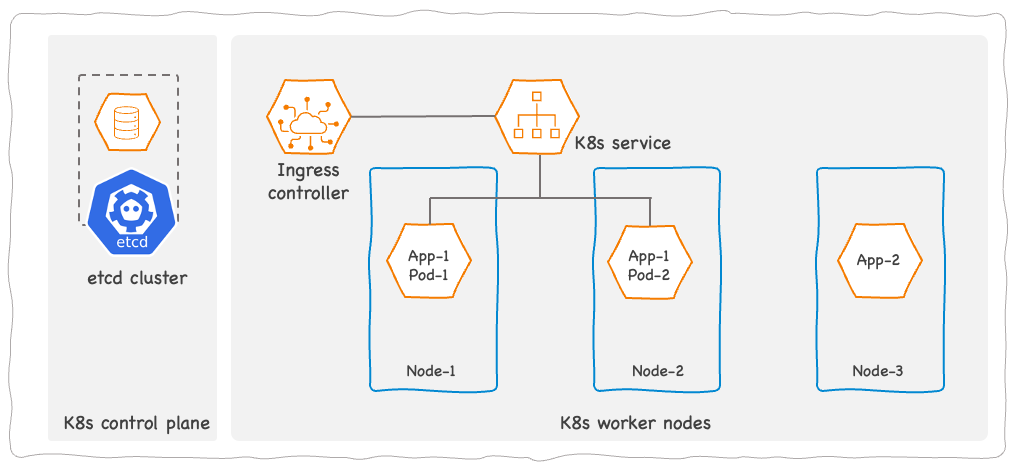
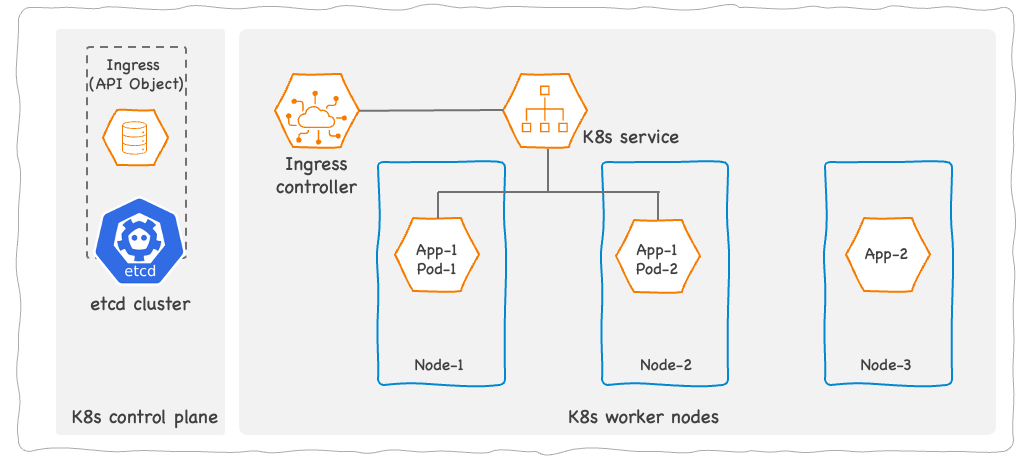
updated ingress

diff --git a/_sass/_post.scss b/_sass/_post.scss
@@ -92,6 +92,14 @@ section.post-footer{
   padding-bottom: 5px;
 }
 
+p{
+  img{
+    display: block;
+    margin-left: auto;
+    margin-right: auto;
+  }
+}
+
 img + em { 
   display: block;
   text-align: center;

diff --git a/_drafts/2023-07-01-kubernetes-ingress.md b/_drafts/2023-07-01-kubernetes-ingress.md
@@ -2,52 +2,57 @@
 layout: post
 title:  "What is Kubernetes Ingress"
 description: > 
-  The purpose of Kubernetes Ingress and how to use it.
-image: "docker-cli.png"
+  What is the purpose of Kubernetes Ingress and how to use it to expose HTTP(S) workloads.
+image: "k8s-ingress-cover.png"
 date:   2023-06-23 15:10:00 +0530
 categories: [hands-on]
 tags: [Kubernetes]
 ---
 
 <div class="header-highlight">
-The purpose of Kubernetes Ingress and how to use it to expose HTTP workloads.
+Ingress is a mechanism for exposing HTTP or HTTPS application running inside a Kubernetes cluster. 
 </div>
 
-We discussed about Kubernetes networking and how to expose an application running inside Kubernetes. 
-There's another method that we can expose a Service to external world - Kubernetes Ingress.
+An application running inside a Kubernetes cluster is not directly accessible from outside most of the time. For exposing such applications to outside clients, Kubernetes provides several methods.
 
-Kubernetes Ingress expose an application via an Nginx which acts as a reverse prox. So, ngress works onl for HTTP or HTTPS based applications. 
+Ingress is one such method and is better suited for exposing Kubernetes Workloads via HTTP or HTTP(S).
 
-You may wander why there are two ways of exposing Kubernetes services. 
-They have slight differences.
+Kubernetes has other mechanisms such as NodePort and LoadBalancer for non-HTTP usecases. 
 
-A load balancer routes traffic directly to Pods. It works in layer 4 and distribut traffic to pods.
-
-An Ingress routes trafffic through an Ingress controller which itself is a Pod within the cluster. The Pods need not be exposed to outside. 
-An ingress is in  Layer-7. It can handle URL or subdomain based routing. All traffi goes through the ingress controller Pod. It works only for HTTP or HTTPs protocols only.
-
-A rule of thumb is if your application uses HTTP or HTTPS only, use ingress. Otherwise go for a loadbalancer service.
+Unlike other mechanisms, ingress works in layer-7 of the OSI model. So, ingress supports SSL/TLS termination, and URL/subdomain based traffic routing and load balancing, so ingress provides a better mechanism that works only for HTTP(S) applications.
 
 # Ingress and Ingress Controller
 
-Kubernetes Ingress is an API object in Kubernetes. Kubernetes stores its API objects in the `etcd` data store.
+Ingress is an API object stored in the `etcd` data stoer in Kubernetes. Ingress defines the traffic routing rules. But ingress alone is not sufficient for routing traffic.
+
+The ingress controller is responsible for routing the HTTP(S) traffic according ot the rules defined in ingress. Typically, Ingress controller is deployed inside the cluster. But, cloud providers like AWS where Pod IP addresses are reachable in the VPC, ingress controller can reside outside the cluster.
+
+When the ingress controller is deployed inside the cluster, you need a load balancer to be deployed in front of the ingress controller. 
 
 <div class="inline-highlight">
 An Ingress object defines a set of rules for routing HTTP(S) traffic to Kubernetes Service(s).
 </div>
 An Ingress object defines how HTTP or HTTPS traffic must be routed to one or more Kubernetes Services.
 
-The `Ingress Controller` is a piece of software that runs in one or more Pods inside the kubernetes cluster. The ingress controller implements the rules defined in the Ingress object and takes care of routing the traffic to destined Kubernetes Services.
-
 ![Ingress and Ingress Controller](/assets/images/k8s-ingress-api-object.png){: width="100%" }
 *Ingress and Ingress Controller*
 
-# Ingress controller implementations
-There are several implementations of ingress controller, commercial or open-source, managed or self-managed.
+# Ingress controller implementation
+An ingress controller has two parts.
+
+It has a reverst proxy which is responsible for routing HTTP(S) requests to appropriate backends - Kubernetes Services.
+
+The controller watches the Kubernetes API and configures the reverse proxy appropriately - when creating a new Ingress resource.
+
+![Concept of an ingress controller](/assets/images/k8s-ingress-controller-how.png){: width="100%" }
+*Concept of an ingress controller*
+
+
+There are several ingress controller implementations - open-source and commercial, managed and self-managed.
 
 ## Open-source ingress controllers
 
-Ingrsss NGINX controller is an open-source ingress controller that is supported and maintained by Kubernetes project. It uses NGINX as a reverse proxy and load balancer. 
+[Ingrsss NGINX controller][ingress-nginx] is an open-source ingress controller that is supported and maintained by the Kubernetes project. It uses NGINX as a reverse proxy and load balancer. 
 
 HA Proxy ingress, Istio Ingree Gateway, and [Traefik Kubernetes ingress provider][traefik] are other open-source ingress controller implementations.
 
@@ -57,35 +62,82 @@ NGINX Ingress Controller - not to be confused with the open-source Ingress Nginx
 
 ## Managed ingress controllers 
 
-Running Kubernetes on public clouds you can take the advantage of managed ingress controllers offered by the cloud providers. AWS Application Load Balancer from AWS, GKE Ingress from GCP, and Web application routing add-on from Azure are such managed ingress controllers.
+Running Kubernetes on the public cloud, you can take the advantage of managed ingress controllers offered by the cloud providers. [AWS Load Balancer Controller][aws-lbc], [GKE Ingress from GCP][gke-ingress], and [Web application routing add-on from Azure][azure-ingress] are such managed ingress controllers.
 
-Once you enable these ingress controllers, the cloud provider will take care of provisioning and configuring the ingress controller when you create/delete ingress objects.
+These managed ingress controllers are offered as add-on to the managed Kubernetes distributions in the respective cloud providers. Once you enable the add-on, the cloud provider takes care of provisioning cloud resources like load balancers when you create ingress objects.
 
-You can also use other ingress controllers like Ingress Nginx controller on public clouds. Most of the time you will need a network load balancer in front of the ingress controller for these deployments.
+You can also use other ingress controllers like [Ingress Nginx controller][ingress-nginx] on public clouds. Then you need to provision a network load balancer to route traffic from exteranl applications to the Ingress controller inside the Kubernetes cluster.
 
 
-# Deploying an ingress NGINX controller
-To get some hands-on experience with ingress controller, the best option is the Ingress NGINX controller, which is also maintained by the Kubernetes project.
+# Working with ingress
+Now that we are familiar with the working of ingress and ingress controller, let's use Kubernetes ingress to expose an application to outside.
 
-If you are running microK8s, Ingress NGINX is available as an add-on that you can simply enable.
+We'll use MicroK8s from Canonical. It's easy to setup and porvides Ingress NGINX Controller as an add-on. Since Ingress NGINX Controller is installed inside the cluster, we also need a load balancer which MicroK8s provide ass another add-on.
+
+Enable both add-ons.
+
 ```yaml
 microk8s enable ingress
+microk8s enable metallb
 ```
 
-If not, you can install Ingress NGINX controllers using Kubernetes manifests
+If you are working on a vanilla Kubernetes cluster, you can install Ingress NGINX controller with Helm charts or YAML manifests and `kubectl`.
+
+Then you can install MetalLB by following the relevant installation instructions.
+
+MicroK8s and the other installation methods deploys the Ingress NGINX controller as a Daemonset. 
+
+You can run an ingress Controller as a Deploymet also. But, the Daemonset is preferred as it will be risielent agains failure of multiple nodes in the cluster.
+
+
+## number-crunch application
+The application we are going to use is [number-crunch](https://github.com/cloudqubes/number-crunch) which is a simple HTTP server with two endpoints.
+
+![number-crunch application](/assets/images/k8s-ingress-number-crunch-app-only.png){: width="80%" }
+*number-crunch application*
+
+## Deploying number-crunch on Kubernetes
+
+We are going to use `kubectl` and YAML manifests to create the `number-crunch` deployment which consists of two pods.
+
 ```yaml
-kubectl apply -f https://raw.githubusercontent.com/kubernetes/ingress-nginx/controller-v1.8.0/deploy/static/provider/cloud/deploy.yaml
+apiVersion: apps/v1
+kind: Deployment
+metadata:
+  name: number-crunch-app
+spec:
+  selector:
+    matchLabels:
+      app: number-crunch-app
+  replicas: 2 
+  template:
+    metadata:
+      labels:
+        app: number-crunch-app
+    spec:
+      containers:
+      - name: number-crunch-app
+        image: cloudqubes/number-crunch:1.0.1
+        ports:
+        - containerPort: 8080
 ```
 
-This deploys the Ingress controller as a Daemonset in Kubernetes. You can run the Ingress Controller as a Deploymet. But, the Daemonset is preferred as it will be risielent agains failure of multiple nodes in the cluster.
+The deployment
 
-## Loadbalancer for Ingress controller
-
-An ingress controller is located inside the cluster. For external client to reach the Ingress Controller, yoi need to a load balancer sitting infront of the Ingress Controller.
-
-# Creating an ingress
+## Creating an ingress
 Ingress is an API object. We create an Ingress by cerating a Service of type ingress.
 
+## Managed ingress controllers and your cloud bill
+The implementation architecture of ingress controllers are different from one another. So, when using managed ingress controllers from cloud providers, read the documentation to be familiar with its architecture. 
+
+In AWS, the [AWS Load Balancer Controller][aws-lbc] is responsible only for the `controller` function of the ingress controller. It provisions an [AWS Application Load Balancer] [aws-alb] to handle the HTTP(S) routing. The AWS Application Load Balancer is charged pe hour. When you create a new ingress respource, AWS Application Load Balancer provsiions a new instance of the the AWS Application Load Balancer. But, if you add multiple rules to the same ingress resource, you will need only a single AWS Application Load Balancer. S
+
+You need to understadn such nuances when using managed ingress controllers from cloud providers.
+
+ The Ingress NGINX 
+
+As an example, [AWS Load Balancer Controller][aws-lbc]
+When you enable a managed ingress con
 
 
 [ingress-nginx]: https://github.com/kubernetes/ingress-nginx
@@ -93,4 +145,7 @@ Ingress is an API object. We create an Ingress by cerating a Service of type ing
 [nginx-ingress]: https://www.nginx.com/products/nginx-ingress-controller/
 [FortiADC]: https://docs.fortinet.com/document/fortiadc/7.0.0/fortiadc-ingress-controller-1-0/742835/fortiadc-ingress-controller-overview
 [ha-proxy]: https://haproxy-ingress.github.io
-
+[aws-lbc]: https://docs.aws.amazon.com/eks/latest/userguide/aws-load-balancer-controller.html
+[aws-alb]: https://aws.amazon.com/elasticloadbalancing/application-load-balancer/
+[gke-ingress]: https://cloud.google.com/kubernetes-engine/docs/concepts/ingress
+[azure-ingress]: https://learn.microsoft.com/en-us/azure/aks/web-app-routing?tabs=without-osm

diff --git a/_posts/2023-06-23-docker-quick-reference.md b/_posts/2023-06-23-docker-quick-reference.md
@@ -76,6 +76,22 @@ The Buildx plugin is included in Docker Desktop on Windows, Mac, and Linux (if i
 
 Or install Buildx manually by following [the instructions here](https://github.com/docker/buildx#installing).
 
+### Push image to Docker Hub
+
+Before pushing an image to Docker Hub, you must [create a Docker Hub repository](https://docs.docker.com/docker-hub/repos/create/).
+
+```yaml
+docker tag <image-name>:<tag> <docker-hub-username>/<repo-name>:<tag>
+docker push <docker-hub-username>/<repo-name>:<tag>
+```
+
+`image-name` and `tag` could be any image that you have built locally with `docker build`. 
+
+`docker-hub-username` is your username at Docker Hub.
+
+`repo-name` is the name of the repository that you have created at Docker Hub.
+
+
 ### Verify image architecture
 ```shell
 docker image inspect <image-id> | grep -i architecture
